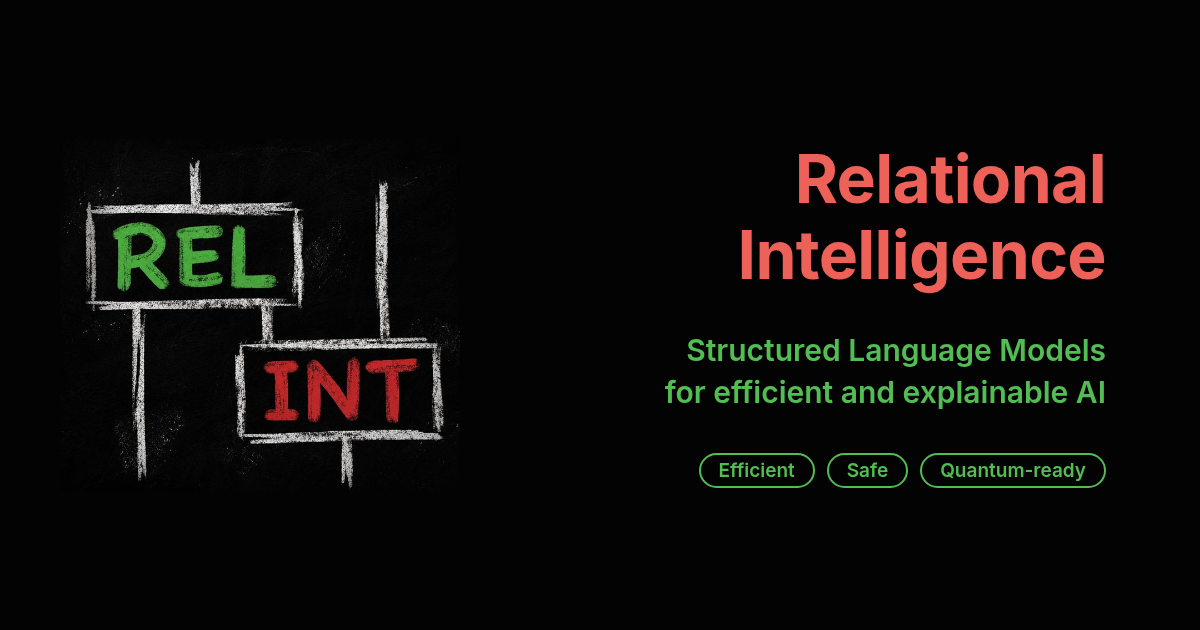
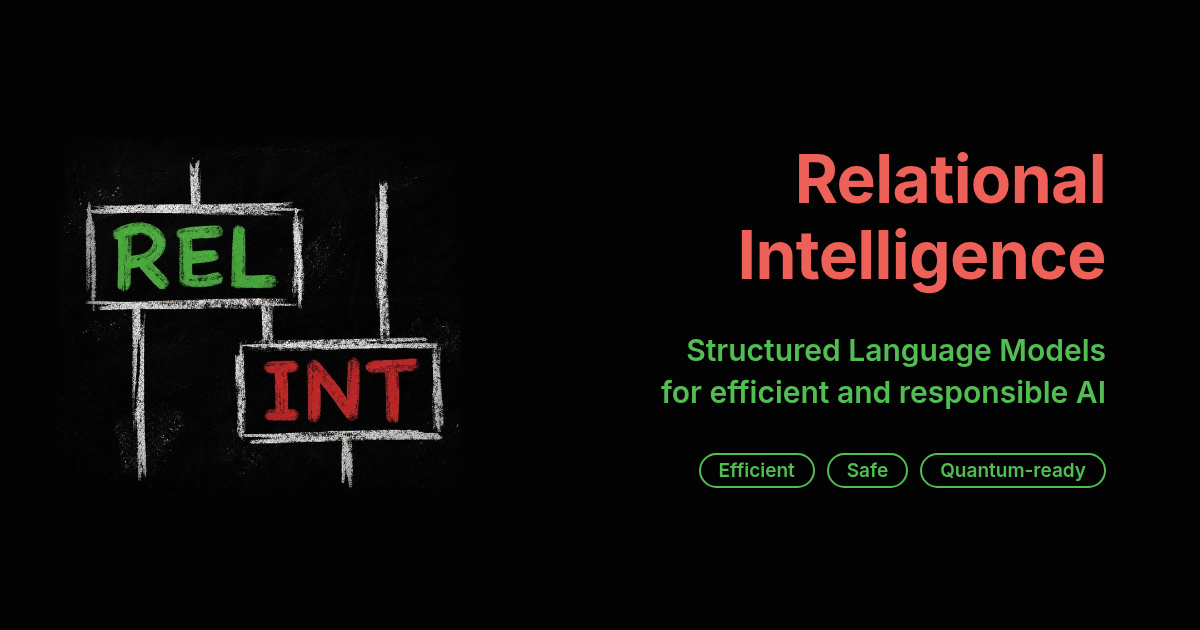
Keep "responsible"; trim Code and Papers copy
Amp-Thread-ID: https://ampcode.com/threads/T-01a211e1-8e46-770b-bea4-32536a7a4841

Changed region(s): [[0.555, 0.6032, 0.8633, 0.6635]]

diff --git a/_layouts/default.html b/_layouts/default.html
@@ -16,7 +16,7 @@
   <meta property="og:image" content="{{ '/pictures/preview.png' | absolute_url }}">
   <meta property="og:image:width" content="1200">
   <meta property="og:image:height" content="630">
-  <meta property="og:image:alt" content="Relational Intelligence: Structured Language Models for efficient and explainable AI">
+  <meta property="og:image:alt" content="Relational Intelligence: Structured Language Models for efficient and responsible AI">
   <meta name="twitter:card" content="summary_large_image">
   <script type="application/ld+json">
     {"@context": "https://schema.org", "@graph": [{"@type": "WebPage", "url": {{ page.url | absolute_url | jsonify }}, "name": {{ title | jsonify }}, "description": {{ description | jsonify }}}{% for node in page.schema %}, {{ node | jsonify }}{% endfor %}]}

diff --git a/index.md b/index.md
@@ -1,13 +1,13 @@
 ---
 layout: default
 title: Relational Intelligence · Structured Language Models
-description: Structured Language Models for efficient and explainable AI. Interpretable, small by design and hardware-agnostic.
+description: Structured Language Models for efficient and responsible AI. Interpretable, small by design and hardware-agnostic.
 schema:
   - "@type": Organization
     name: Relational Intelligence
     url: https://rel-int.ai
     logo: https://rel-int.ai/pictures/icon-192.png
-    description: Structured Language Models for efficient and explainable AI. Interpretable, small by design and hardware-agnostic.
+    description: Structured Language Models for efficient and responsible AI. Interpretable, small by design and hardware-agnostic.
     foundingDate: "2026"
     founder:
       - {"@type": Person, name: Bob Coecke, url: "https://en.wikipedia.org/wiki/Bob_Coecke"}
@@ -27,7 +27,7 @@ schema:
 <div markdown="1">
 # Relational Intelligence
 
-Structured Language Models<br>for efficient and explainable AI
+Structured Language Models<br>for efficient and responsible AI
 {: .tagline}
 
 - Efficient
@@ -62,5 +62,5 @@ Category theory unifies the diagrams every industry draws. We have developed it 
 - {% include diagrams/qnlp.svg %} **2020** [QNLP](https://en.wikipedia.org/wiki/Quantum_natural_language_processing) The first language processing on quantum hardware.
 {: .cols-4 .halves .timeline}
 
-Read our [recent papers](/papers). Our earlier work, before the company, was featured in [The Guardian](https://www.theguardian.com/science/2023/dec/16/physicist-bob-coecke-its-easier-to-convince-kids-than-adults-about-quantum-mechanics), [Forbes](https://www.forbes.com/sites/moorinsights/2021/10/13/cambridge-quantum-makes-quantum-natural-language-processing-a-reality/) and [New Scientist](https://www.newscientist.com/article/1955442-quantum-links-let-computers-understand-language/).
+Read our [recent papers](/papers). Our earlier work was featured in [The Guardian](https://www.theguardian.com/science/2023/dec/16/physicist-bob-coecke-its-easier-to-convince-kids-than-adults-about-quantum-mechanics), [Forbes](https://www.forbes.com/sites/moorinsights/2021/10/13/cambridge-quantum-makes-quantum-natural-language-processing-a-reality/) and [New Scientist](https://www.newscientist.com/article/1955442-quantum-links-let-computers-understand-language/).
 {: .muted}

diff --git a/papers.md b/papers.md
@@ -1,7 +1,7 @@
 ---
 layout: default
 title: Papers · Relational Intelligence
-description: Recent papers on message passing, predictive coding and quantum machine learning, and earlier work by our team on language, interpretability and quantum computing.
+description: Recent papers and earlier work on language, interpretability and quantum computing.
 permalink: /papers
 ---
 
@@ -17,8 +17,6 @@ permalink: /papers
 ---
 
 ## Earlier work
-
-These papers predate the company.
 
 - [Scalable and interpretable quantum natural language processing: an implementation on trapped ions](https://arxiv.org/abs/2409.08777), Tiffany Duneau et al., 2024: the first implementation of text-level quantum natural language processing.
 - [Quantum Algorithms for Compositional Text Processing](https://arxiv.org/abs/2408.06061), Tuomas Laakkonen et al., 2024: QDisCoCirc, a quantum adaptation of DisCoCirc, with quantum algorithms for question answering.

diff --git a/code.md b/code.md
@@ -1,13 +1,11 @@
 ---
 layout: default
 title: Code · Relational Intelligence
-description: "The open-source software we wrote for diagrammatic and quantum computing: DisCoPy, lambeq and optyx."
+description: "Our open-source software for string diagrams and quantum computing: DisCoPy, lambeq and optyx."
 permalink: /code
 ---
 
 # Code
-
-We wrote the open-source software the field runs on.
 
 - **[DisCoPy](https://discopy.org/)** The toolkit for computing with string diagrams. Created by [Alexis Toumi](https://alexis.toumi.xyz/) and co-created by [Giovanni de Felice](https://scholar.google.com/citations?user=-_bkN1gAAAAJ&hl=en). Source on [GitHub](https://github.com/discopy/discopy).
 - **[lambeq](https://github.com/Quantinuum/lambeq)** A library for experimental quantum natural language processing.

diff --git a/careers.md b/careers.md
@@ -9,6 +9,6 @@ permalink: /careers
 
 We are hiring researchers and engineers in applied category theory and machine learning.
 
-Get to know our work: read our [papers](/papers), the latest on [arXiv](https://arxiv.org/abs/2610.18649), or contribute to [DisCoPy](https://github.com/discopy/discopy).
+Get to know our work: read our [papers](/papers) or contribute to [DisCoPy](https://github.com/discopy/discopy).
 
 Write to [careers@rel-int.ai](mailto:careers@rel-int.ai).
